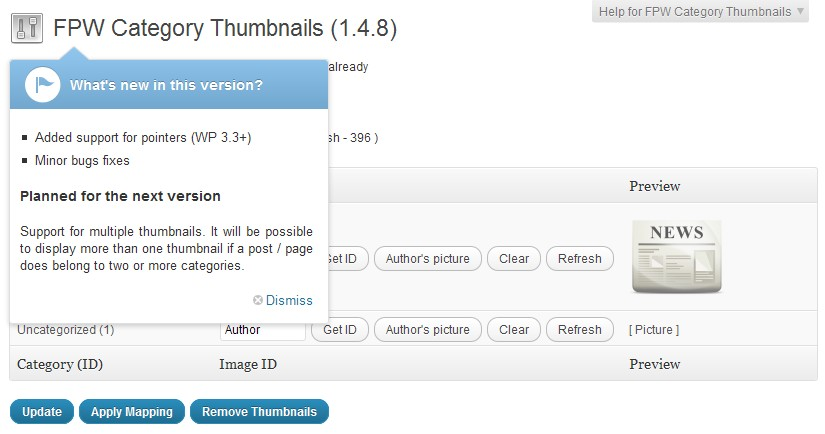
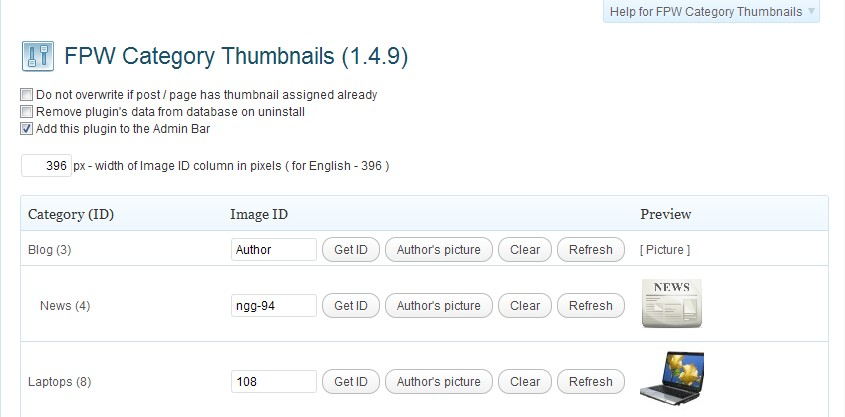
git-svn-id: https://plugins.svn.wordpress.org/fpw-category-thumbnails/trunk@540606 b8457f37-d9ea-0310-8a92-e5e31aec5664

diff --git a/classes/fpw-category-thumbnails.class.php b/classes/fpw-category-thumbnails.class.php
@@ -6,10 +6,9 @@ class fpwCategoryThumbnails {
 	public	$pluginVersion;
 	public	$pluginPage;
 	public	$wpVersion;
-	public	$canActivate;
 	
 	//	constructor
-	public	function __construct( $path, $version ) {
+	function __construct( $path, $version ) {
 		global $wp_version;
 
 		//	set plugin's path
@@ -24,23 +23,20 @@ class fpwCategoryThumbnails {
 		//	set WP version
 		$this->wpVersion = $wp_version;
 		
-		//	set canActivate flag
-		$this->canActivate = ( '2.9' <= $this->wpVersion ) ? true : false;
-
 		//	actions and filters
 		add_action( 'init', array( &$this, 'init' ) );
 		
 		//	actions below are not used in front end
 		add_action( 'admin_menu', array( &$this, 'adminMenu' ) );
 		add_action( 'wp_ajax_fpw_fs_get_file', array( &$this, 'fpw_fs_get_file_ajax' ) );
-		add_action( 'save_post', array( &$this, 'updateID' ), 10, 2 );
+		add_action( 'save_post', array( &$this, 'addThumbnailToPost' ), 10, 2 );
 		add_action( 'after_plugin_row_fpw-category-thumbnails/fpw-category-thumbnails.php', array( &$this, 'afterPluginMeta' ), 10, 2 );
 
 		add_filter( 'plugin_action_links_fpw-category-thumbnails/fpw-category-thumbnails.php', array( &$this, 'pluginLinks' ), 10, 2);
 		add_filter( 'plugin_row_meta', array( &$this, 'pluginMetaLinks'), 10, 2 );
 
-		register_activation_hook( $this->pluginPath . '/fpw-category-thumbnails.php', array( &$this, 'pluginActivate' ) );
-				
+		register_activation_hook( __FILE__, array( &$this, 'pluginActivate' ) );
+		
 		//	Read plugin's options
 		$this->pluginOptions = $this->getOptions();
 
@@ -53,12 +49,12 @@ class fpwCategoryThumbnails {
 	}
 
 	//	register plugin's textdomain
-	public function init() {
+	function init() {
 		load_plugin_textdomain( 'fpw-fct', false, 'fpw-category-thumbnails/languages/' );
 	} 
 
 	//	register admin menu
-	public function adminMenu() {
+	function adminMenu() {
 		$page_title = __( 'FPW Category Thumbnails', 'fpw-fct' ) . ' (' . $this->pluginVersion . ')';
 		$menu_title = __( 'FPW Category Thumbnails', 'fpw-fct' );
 		$this->pluginPage = add_options_page( $page_title, $menu_title, 'manage_options', 'fpw-category-thumbnails', array( &$this, 'pluginSettings' ) );
@@ -74,14 +70,14 @@ class fpwCategoryThumbnails {
 	}
 
 	//	register styles, scripts, and localize javascript
-	public function enqueueScripts( $hook ) {
+	function enqueueScripts( $hook ) {
 		if ( ( 'settings_page_fpw-category-thumbnails' == $hook ) || ( 'media-upload-popup' == $hook ) ) {
 			include $this->pluginPath . '/code/enqueuescripts.php';
 		}
 	}
 	
 	//	enqueue pointer scripts
-	public function enqueuePointerScripts( $hook ) {
+	function enqueuePointerScripts( $hook ) {
 		$proceed = false;
 		$dismissed = explode( ',', (string) get_user_meta( get_current_user_id(), 'dismissed_wp_pointers', true ) );
 		if ( !in_array( 'fpwfct148', $dismissed ) && apply_filters( 'show_wp_pointer_admin_bar', TRUE ) ) {
@@ -96,7 +92,7 @@ class fpwCategoryThumbnails {
 	}
 
 	// 	handle pointer
-	public function custom_print_footer_scripts() {
+	function custom_print_footer_scripts() {
     	$pointerContent  = '<h3>' . esc_js( __( "What's new in this version?", 'fpw-fct' ) ) . '</h3>';
 		$pointerContent .= '<li style="margin-left:25px;margin-top:20px;list-style:square">' . __( 'Added support for pointers', 'fpw-fct' ) . ' (WP 3.3+)</li>';
 		$pointerContent .= '<li style="margin-left:25px;list-style:square">' . __( 'Minor bugs fixes', 'fpw-fct' ) . '</li>';
@@ -125,13 +121,13 @@ class fpwCategoryThumbnails {
 	}
 
 	//	contextual help for WordPress 3.3+
-	public function help33() {
+	function help33() {
 		if ( '3.3' <= $this->wpVersion ) 
 			include $this->pluginPath . '/help/help33.php';
 	}
 	
 	//	contextual help for Wordpress older than 3.3
-	public function help( $contextual_help, $screen_id, $screen ) {
+	function help( $contextual_help, $screen_id, $screen ) {
 		if ( $screen_id == $this->pluginPage ) {
 			include $this->pluginPath . '/help/help.php';
 		}	
@@ -139,13 +135,13 @@ class fpwCategoryThumbnails {
 	}
 
 	// AJAX wrapper to get image HTML
-	public function fpw_fs_get_file_ajax() {
+	function fpw_fs_get_file_ajax() {
 		if ( defined("DOING_AJAX") && DOING_AJAX ) 
 			include $this->pluginPath . '/ajax/fpwfctajax.php';
 	}
 
 	//	add update information after plugin meta
-	public function afterPluginMeta( $file, $plugin_data ) {
+	function afterPluginMeta( $file, $plugin_data ) {
 		$current = get_site_transient( 'update_plugins' );
 		if ( !isset( $current -> response[ $file ] ) ) 
 			return false;
@@ -156,41 +152,33 @@ class fpwCategoryThumbnails {
 	}
 
 	//	add link to Donation to plugins meta
-	public function pluginMetaLinks( $links, $file ) {
+	function pluginMetaLinks( $links, $file ) {
 		if ( 'fpw-category-thumbnails/fpw-category-thumbnails.php' == $file ) 
 			$links[] = '<a href="http://fw2s.com/payments-and-donations/" target="_blank">' . __( "Donate", "fpw-fct" ) . '</a>';
 		return $links;
 	}
 	
 	//	add link to settings page in plugins list
-	public function pluginLinks( $links, $file ) {
+	function pluginLinks( $links, $file ) {
    		$settings_link = '<a href="' . site_url( '/wp-admin/' ) . 'options-general.php?page=fpw-category-thumbnails">' . __( 'Settings', 'fpw-fct' ) . '</a>';
 		array_unshift( $links, $settings_link );
     	return $links;
 	}
 	
-	//	activation and uninstall file maintenance
-	public function pluginActivate() {
-		//	check if activation is possible
-		if ( $this->canActivate ) {
-			//	if cleanup requested make uninstall.php otherwise make uninstall.txt
-			if ( $this->pluginOptions[ 'clean' ] ) {
-				if ( file_exists( $this->pluginPath . '/uninstall.txt' ) ) 
-					rename( $this->pluginPath . '/uninstall.txt', $this->pluginPath . '/uninstall.php' );
-			} else {
-				if ( file_exists( $this->pluginPath . '/uninstall.php' ) ) 
-					rename( $this->pluginPath . '/uninstall.php', $this->pluginPath . '/uninstall.txt' );
-			}
+	//	uninstall file maintenance
+	function pluginActivate() {
+		//	if cleanup requested make uninstall.php otherwise make uninstall.txt
+		if ( $this->pluginOptions[ 'clean' ] ) {
+			if ( file_exists( $this->pluginPath . '/uninstall.txt' ) ) 
+				rename( $this->pluginPath . '/uninstall.txt', $this->pluginPath . '/uninstall.php' );
 		} else {
-			deactivate_plugins( $this->pluginPath . '/fpw-category-thumbnails.php' );
-			wp_die( '<center><strong>CANNOT ACTIVATE<br />&nbsp;<br />' . 
-					'FPW Category Thumbnails</strong> requires <strong>WordPress 2.9 or higher</strong><br />&nbsp;<br />' . 
-					'Press your browser\'s <em>Back</em> button</center>' );		
+			if ( file_exists( $this->pluginPath . '/uninstall.php' ) ) 
+				rename( $this->pluginPath . '/uninstall.php', $this->pluginPath . '/uninstall.txt' );
 		}
 	}	
 	
 	//	add plugin to admin bar ( WordPress 3.1+ )	
-	public function pluginToAdminBar() {
+	function pluginToAdminBar() {
 		if ( current_user_can( 'manage_options' ) ) {
 			global 	$wp_admin_bar;
 			
@@ -218,7 +206,7 @@ class fpwCategoryThumbnails {
 	}
 	
 	//	plugin's Settings page
-	public function pluginSettings() {
+	function pluginSettings() {
 		//	get all categories
 		$categories = array();
 		$cats0 = get_categories('hide_empty=0&orderby=name&parent=0');
@@ -361,7 +349,7 @@ class fpwCategoryThumbnails {
 							$post_id = $post->ID;
 							//	make sure this is not a revision nor draft
 							if ( ( 'revision' != $post->post_type ) && ( 'draft' != $post->post_status ) )
-								$this->updateID( $post_id, $post );
+								$this->addThumbnailToPost( $post_id, $post );
 						}
 						next($map);
 					}
@@ -600,7 +588,7 @@ class fpwCategoryThumbnails {
 	Main action - sets the value of post's _thumbnail_id based on category
 	assignments
 	------------------------------------------------------------------- */
-	public function updateID( $post_id, $post = NULL ) {
+	function addThumbnailToPost( $post_id, $post = NULL ) {
 		if ( NULL === $post ) 
 			return;
 		//	we don't want to apply changes to post's revision or drafts
@@ -620,7 +608,7 @@ class fpwCategoryThumbnails {
 					//	as the thumbnail of default category will be there already
 					if ( array_key_exists( $c->cat_ID, $map ) )
 						if ( $map[ $c->cat_ID ] === 'Author' ) {
-							$auth_pic_id = $this->GetAuthorsPictureID( $post->post_author );
+							$auth_pic_id = self::getAuthorsPictureID( $post->post_author );
 							if ( '0' != $auth_pic_id ) 
 								update_post_meta( $post_id, '_thumbnail_id', $auth_pic_id );
 						} else { 
@@ -631,7 +619,7 @@ class fpwCategoryThumbnails {
 					if ( array_key_exists( $c->cat_ID, $map ) ) 
 						if ( !( $do_notover ) ) {
 							if ( $map[ $c->cat_ID ] === 'Author' ) {
-								$auth_pic_id = $this->GetAuthorsPictureID( $post->post_author );
+								$auth_pic_id = self::getAuthorsPictureID( $post->post_author );
 								if ( '0' != $auth_pic_id )
 									 update_post_meta( $post_id, '_thumbnail_id', $auth_pic_id );
 							} else {
@@ -640,7 +628,7 @@ class fpwCategoryThumbnails {
 						} else {
 							if ( '' == $thumb_id )
 								if ( $map[ $c->cat_ID ] === 'Author' ) {
-									 $auth_pic_id = $this->GetAuthorsPictureID( $post->post_author );
+									 $auth_pic_id = self::getAuthorsPictureID( $post->post_author );
 									 if ( '0' != $auth_pic_id )
 									 	update_post_meta( $post_id, '_thumbnail_id', $auth_pic_id );
 								} else {
@@ -654,7 +642,7 @@ class fpwCategoryThumbnails {
 	}
 	
 	//	get author's picture id - helper function
-	private function getAuthorsPictureID( $author_id ) {
+	private static function getAuthorsPictureID( $author_id ) {
 		global $wpdb;
 		$pic_id = 0;
 		$all_media = $wpdb->get_results( "SELECT DISTINCT * FROM " . $wpdb->prefix . "posts " .

diff --git a/classes/fpw-category-thumbnails-front.class.php b/classes/fpw-category-thumbnails-front.class.php
@@ -1,0 +1,124 @@
+<?php
+class fpwCategoryThumbnails {
+	public	$pluginOptions;
+	public	$pluginPath;
+	public	$pluginUrl;
+	public	$pluginVersion;
+	public	$pluginPage;
+	public	$wpVersion;
+	
+	//	constructor
+	public	function __construct( $path, $version ) {
+		global $wp_version;
+
+		//	set plugin's path
+		$this->pluginPath = $path;
+		
+		//	set plugin's url
+		$this->pluginUrl = WP_PLUGIN_URL . '/fpw-category-thumbnails';
+		
+		//	set version
+		$this->pluginVersion = $version;
+
+		//	set WP version
+		$this->wpVersion = $wp_version;
+	}	
+
+	/*	------------------------------------------------------------------
+	Main action - sets the value of post's _thumbnail_id based on category
+	assignments
+	------------------------------------------------------------------- */
+	public function addThumbnailToPost( $post_id, $post = NULL ) {
+		if ( NULL === $post ) 
+			return;
+		//	we don't want to apply changes to post's revision or drafts
+		if ( ( 'revision' == $post->post_type ) || ( 'draft' == $post->post_status ) ) 
+			return;
+		//	this is actual post
+		$thumb_id = get_post_meta( $post_id, '_thumbnail_id', TRUE );
+		$do_notover = get_option( 'fpw_category_thumb_opt' );
+		if ( $do_notover )
+			$do_notover = $do_notover[ 'donotover' ]; 
+		$map = get_option( 'fpw_category_thumb_map' );
+		if ( $map ) {
+			$cat = get_the_category( $post_id );
+			foreach ( $cat as $c ) {
+				if ( $post->post_date === $post->post_modified ) {
+					//	in case of a new post we have to ignore setting of $do_notover flag
+					//	as the thumbnail of default category will be there already
+					if ( array_key_exists( $c->cat_ID, $map ) )
+						if ( $map[ $c->cat_ID ] === 'Author' ) {
+							$auth_pic_id = self::getAuthorsPictureID( $post->post_author );
+							if ( '0' != $auth_pic_id ) 
+								update_post_meta( $post_id, '_thumbnail_id', $auth_pic_id );
+						} else { 
+							update_post_meta( $post_id, '_thumbnail_id', $map[ $c->cat_ID ] );
+						}
+				} else {
+					//	modified post - observe $do_notover flag
+					if ( array_key_exists( $c->cat_ID, $map ) ) 
+						if ( !( $do_notover ) ) {
+							if ( $map[ $c->cat_ID ] === 'Author' ) {
+								$auth_pic_id = self::getAuthorsPictureID( $post->post_author );
+								if ( '0' != $auth_pic_id )
+									 update_post_meta( $post_id, '_thumbnail_id', $auth_pic_id );
+							} else {
+								update_post_meta( $post_id, '_thumbnail_id', $map[ $c->cat_ID ] );
+							}
+						} else {
+							if ( '' == $thumb_id )
+								if ( $map[ $c->cat_ID ] === 'Author' ) {
+									 $auth_pic_id = self::getAuthorsPictureID( $post->post_author );
+									 if ( '0' != $auth_pic_id )
+									 	update_post_meta( $post_id, '_thumbnail_id', $auth_pic_id );
+								} else {
+									update_post_meta( $post_id, '_thumbnail_id', $map[ $c->cat_ID ] );
+								}
+						}
+				}
+				$thumb_id = get_post_meta( $post_id, '_thumbnail_id', TRUE );
+  			}
+		}
+	}
+	
+	//	get author's picture id - helper function
+	private static function getAuthorsPictureID( $author_id ) {
+		global $wpdb;
+		$pic_id = 0;
+		$all_media = $wpdb->get_results( "SELECT DISTINCT * FROM " . $wpdb->prefix . "posts " .
+			"WHERE post_type = 'attachment' AND guid LIKE '%author_" . $author_id . ".jpg%' ORDER " .
+			"BY post_date DESC" );
+		if ( 0 < count( $all_media ) ) {
+			$obj = $all_media[0];
+			$pic_id	= $obj->ID;
+		} else {
+			$active_plugins = get_option( 'active_plugins' );
+			$length = count( $active_plugins );
+			$nextGenActive = FALSE;
+			$i = 0;
+			while ( $i < $length ) {
+				if ( 0 < strpos( $active_plugins[ $i ], 'nggallery.php' ) ) {
+					$nextGenActive = TRUE;
+					$i = $length;
+				}
+				$i++;
+			}
+			if ( $nextGenActive ) {
+				$tmp = $wpdb->get_results( "SELECT DISTINCT * FROM " . $wpdb->prefix . "ngg_gallery WHERE slug = 'authors'" );
+				if ( 0 < count( $tmp ) ) {
+					$obj = $tmp[0];
+					$galleryID = $obj->gid;
+					$tmp = $wpdb->get_results( "SELECT DISTINCT * FROM " . $wpdb->prefix . "ngg_pictures " .
+						"WHERE galleryid = " . $galleryID . " AND filename LIKE '%" . $author_id . ".jpg%'" );
+					if ( 0 < count( $tmp ) ) {
+						$obj = $tmp[0];
+						$pic_id = 'ngg-' . $obj->pid;
+					}
+				}
+			}
+		}	
+		return $pic_id;
+	}	
+	 
+}
+?>

diff --git a/help/help.php b/help/help.php
@@ -89,7 +89,13 @@
 						__( 'Upload authors\' pictures into media library or NextGen gallery.', 'fpw-fct' ) . ' ' . 
 						__( 'File names of authors\' pictures in media library must follow this naming convention: \'autor_id.jpg\' where \'id\' is author\'s user id. ', 'fpw-fct' ) . ' ' . 
 						__( 'File names of authors\' pictures in NextGen gallery must follow this naming convention: \'id.jpg\' where \'id\' is author\'s user id.', 'fpw-fct' ) . ' ' .
-						__( 'The name of NextGen gallery must be \'authors\'.', 'fpw-fct' ) . '</p>' . 
+						__( 'The name of NextGen gallery must be \'authors\'.', 'fpw-fct' ) . '<br /><br /><strong>'.
+						__( 'Question:', 'fpw-fct' ) . '</strong> ' . 
+						__( 'How to use \'fpwCategoryThumbnails::addThumbnailToPost\' method?', 'fpw-fct' ) . '<br><strong>' . 
+						__( 'Answer:', 'fpw-fct' ) . '</strong> ' . 
+						__( 'Look into', 'fpw-fct' ) . 
+						' <a href="http://fw2s.com/support/fpw-category-thumbnails-documentation/public-method-fpwcategorythumbnailsaddthumbnailtopost/" target="_blank">Public method fpwCategoryThumbnails::addThumbnailToPost</a> ' . 
+						__( 'topic of Documentation.', 'fpw-fct' ) . '</p>' . 
 						'<p style="font-size: larger">' . __( 'More information', 'fpw-fct' ) . '</p>' . 
 						'<blockquote><a href="http://fw2s.com/fpw-category-thumbnails-plugin/" target="_blank">' . __( 'Plugin\'s site', 'fpw-fct' ) . '</a></blockquote>' . 
 						'<p style="font-size: larger">' . __( 'Support', 'fpw-fct' ) . '</p>' . 

diff --git a/help/help33.php b/help/help33.php
@@ -98,7 +98,13 @@
 					__( 'Upload authors\' pictures into media library or NextGen gallery.', 'fpw-fct' ) . ' ' . 
 					__( 'File names of authors\' pictures in media library must follow this naming convention: \'autor_id.jpg\' where \'id\' is author\'s user id. ', 'fpw-fct' ) . ' ' . 
 					__( 'File names of authors\' pictures in NextGen gallery must follow this naming convention: \'id.jpg\' where \'id\' is author\'s user id.', 'fpw-fct' ) . ' ' .
-					__( 'The name of NextGen gallery must be \'authors\'.', 'fpw-fct' ) . '</blickquote>'; 
+					__( 'The name of NextGen gallery must be \'authors\'.', 'fpw-fct' ) . '<br /><br /><strong>' . 
+					__( 'Question:', 'fpw-fct' ) . '</strong> ' . 
+					__( 'How to use \'fpwCategoryThumbnails::addThumbnailToPost\' method?', 'fpw-fct' ) . '<br><strong>' . 
+					__( 'Answer:', 'fpw-fct' ) . '</strong> ' . 
+					__( 'Look into', 'fpw-fct' ) . 
+					' <a href="http://fw2s.com/support/fpw-category-thumbnails-documentation/public-method-fpwcategorythumbnailsaddthumbnailtopost/" target="_blank">Public method fpwCategoryThumbnails::addThumbnailToPost</a> ' . 
+					__( 'topic of Documentation.', 'fpw-fct' ) . '</blockquote>'; 
 			
 		$current_screen->add_help_tab( array(
    			'title'   => __( 'FAQ', 'fpw-fct' ),

diff --git a/fpw-category-thumbnails.php b/fpw-category-thumbnails.php
@@ -26,6 +26,8 @@ Foundation, Inc., 51 Franklin St, Fifth Floor, Boston, MA  02110-1301  USA
 //	back end only
 if ( is_admin() ) {
 	require_once dirname(__FILE__) . '/classes/fpw-category-thumbnails.class.php';
-	new fpwCategoryThumbnails( dirname(__FILE__), '1.4.9' );
+} else {
+	require_once dirname(__FILE__) . '/classes/fpw-category-thumbnails-front.class.php';
 }
+new fpwCategoryThumbnails( dirname(__FILE__), '1.4.9' );
 ?>
